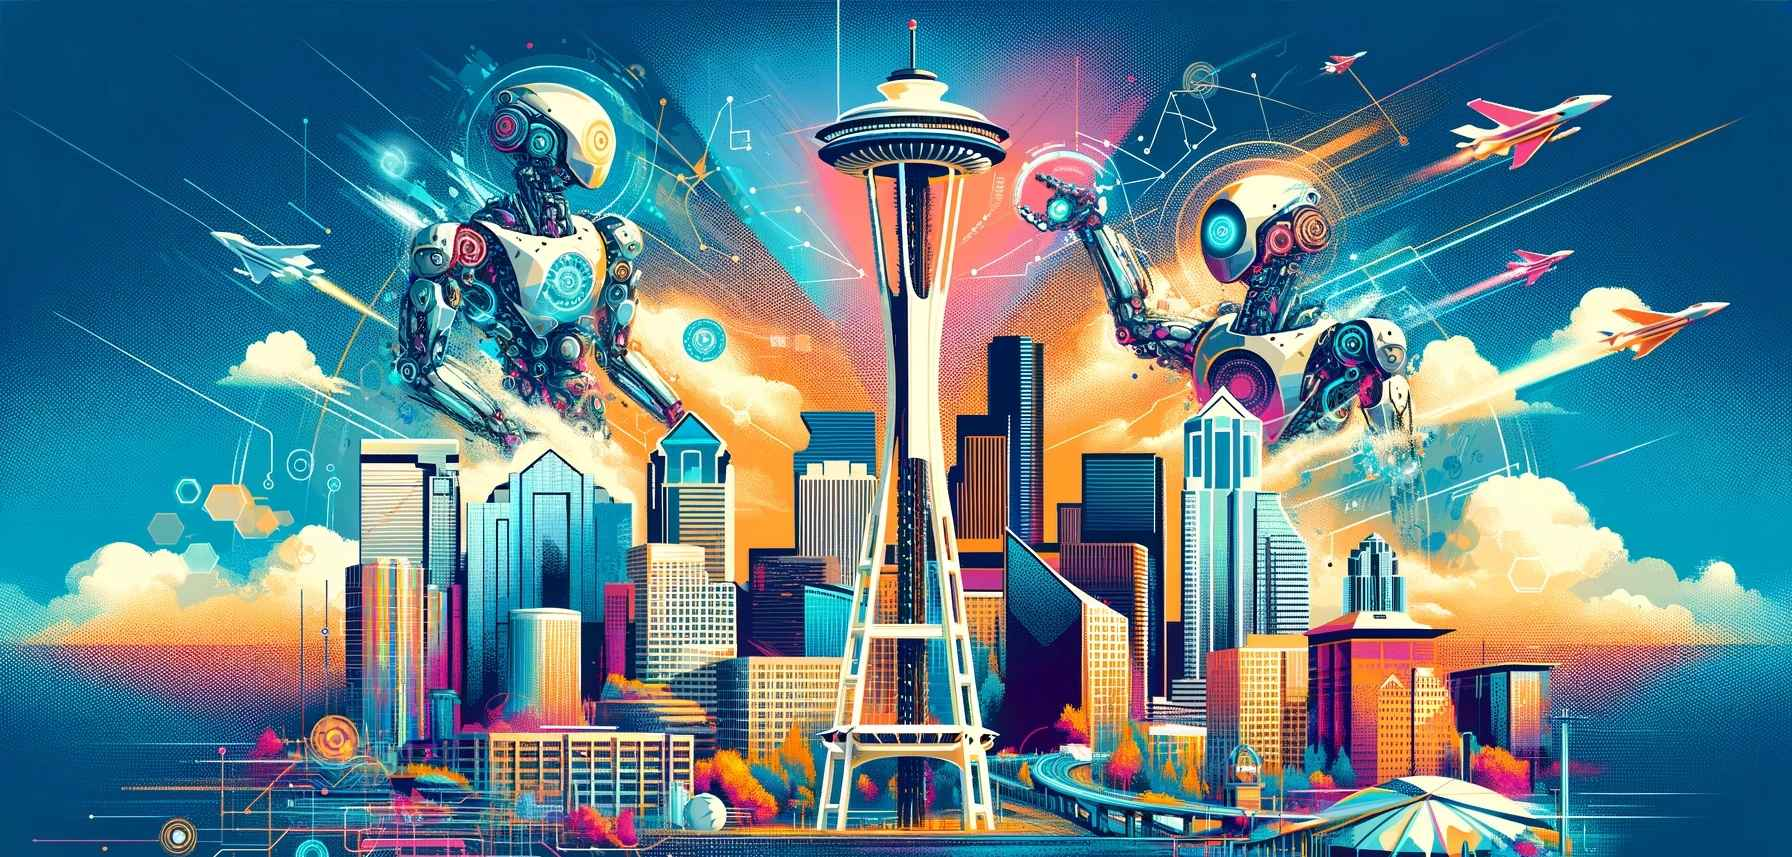
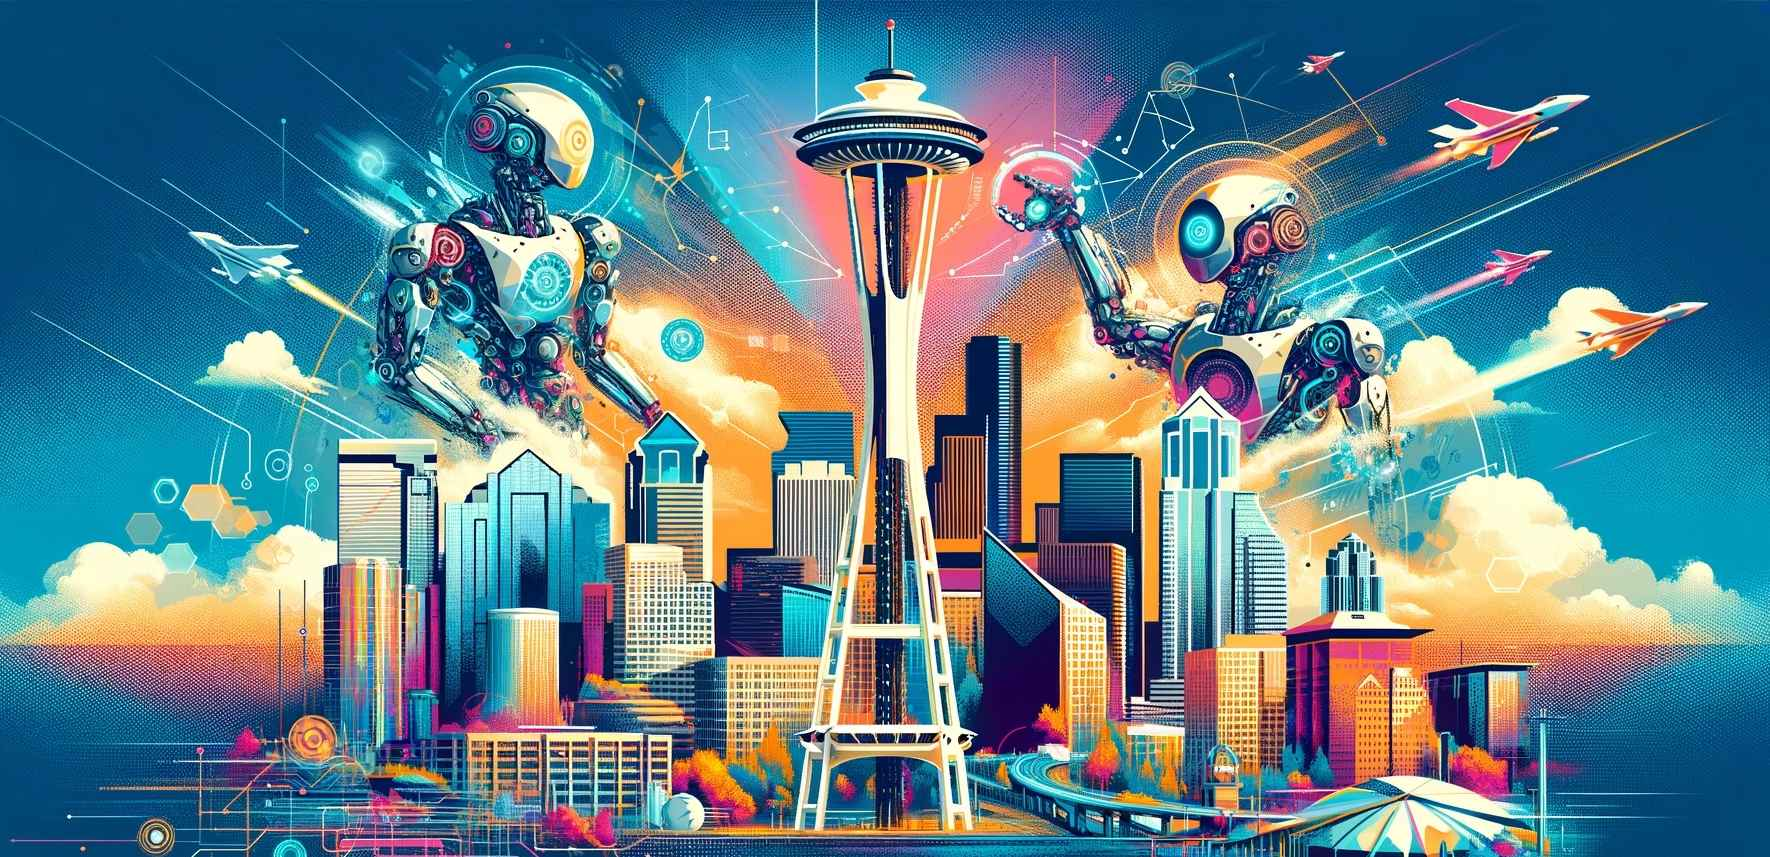
.

diff --git a/cvpr2024/index_.html b/cvpr2024/index_.html
@@ -50,17 +50,15 @@
                 <img loading="lazy" src="/assets/icon/cvpr/ieee_cs_white.png"/>
             </div>
 
-            <br><br><br>
-
             <div class="container">
                 <a href="/cvpr2024/workshop/" style="background-image: url(/assets/background/seattle.jpg);">
-                    <h1 class="Owhite">Workshop</h1>
+                    <h1 class="Owhite">WORKSHOP</h1>
                 </a>
                 <a href="/challenge/"  style="background-image: url(/assets/background/seattle_space_needle.jpg);" >
-                    <h1 class="Owhite">Challenge</h1>
+                    <h1 class="Owhite">CHALLENGE</h1>
                 </a>
-                <a href="/cvpr2024/tutorial/" style="background-image: url(/style/img/bg/autonomous-vehicle-integration_l.jpg);">
-                    <h1 class="Owhite">Tutorial</h1>
+                <a href="/cvpr2024/tutorial/" style="background-image: url(/assets/background/seattle_gen.jpg);">
+                    <h1 class="Owhite">TUTORIAL</h1>
                 </a>
             </div>
             

diff --git a/cvpr2024/index.css b/cvpr2024/index.css
@@ -9,6 +9,7 @@
 
 
 .banner_container {
+    height: 100%;
     justify-content: center;
     align-items: center;
 }
@@ -20,10 +21,17 @@
     display: flex;
     justify-content: space-evenly;
     align-items: flex-end;
+    margin-bottom: 10vh;
+    @media screen and (max-width: 1536px) {
+        justify-content: space-between;
+    }
 }
 .banner_logo img {
-    width: 20vw;
+    width: max(17vw, 384px);
     height: fit-content;
+    @media screen and (max-width: 1536px) {
+        width: 40vw;
+    }
 }
 
 
@@ -31,6 +39,7 @@
 .container {
     width: 100%;
     display: grid;
+    gap: 5vh;
     grid-template-columns: repeat(auto-fill, 27vw);
     justify-content: space-between;
     & a {
@@ -49,7 +58,10 @@
             }
         }
     }
-    @media screen and (max-width: 1024px) {
+    @media screen and (max-width: 1536px) {
         grid-template-columns: repeat(auto-fill, 100%);
+        & a {
+            height: 17vh;
+        }
     }
 }

diff --git a/cvpr2024/tutorial/index.css b/cvpr2024/tutorial/index.css
@@ -3,12 +3,9 @@
     height: 100%;
     background-image: url(/assets/background/seattle_gen.jpg);
     background-size: cover; 
-    background-position: 60%;
+    background-position: center;
     background-blend-mode: overlay;
     background-color: rgb(33, 33, 33, .7);
-    @media screen and (max-width: 1024px) {
-        background-position: 51%;
-    }
 }
 .banner_container div {
     display: flex;
